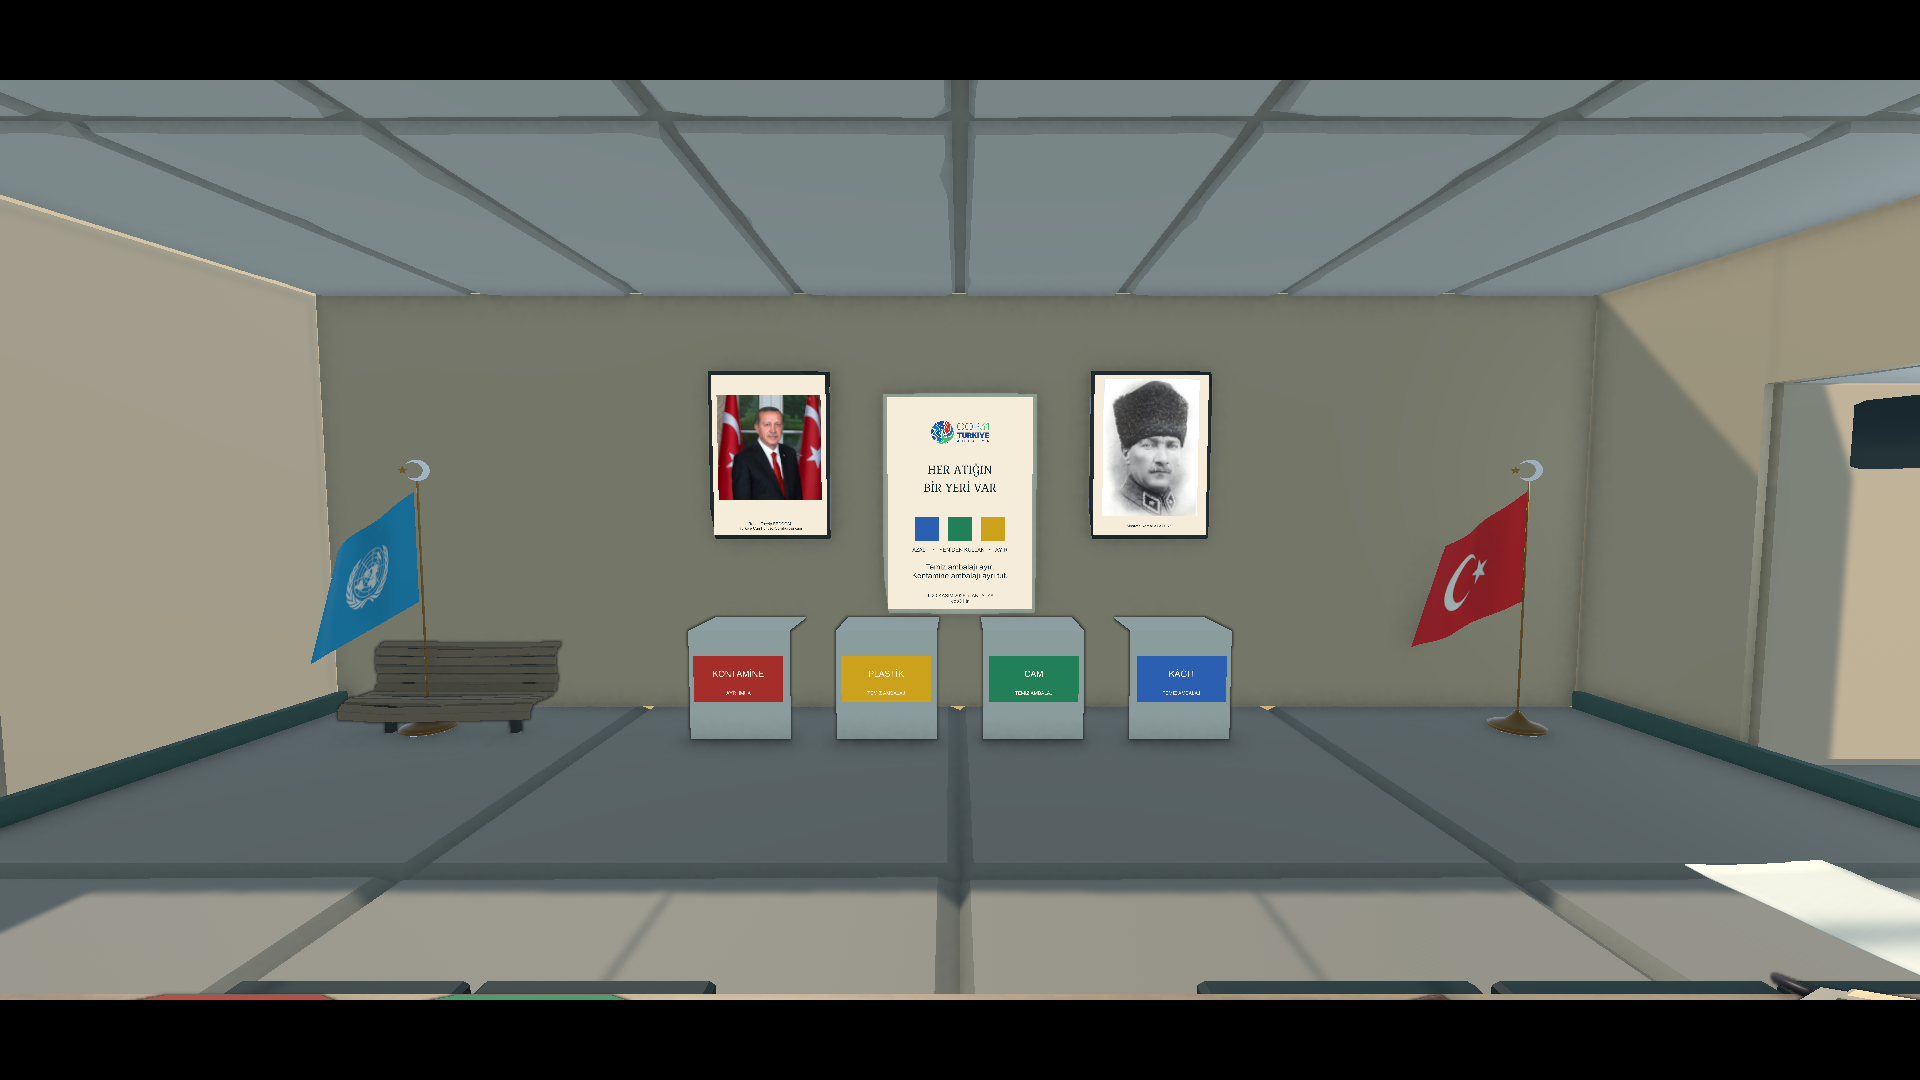
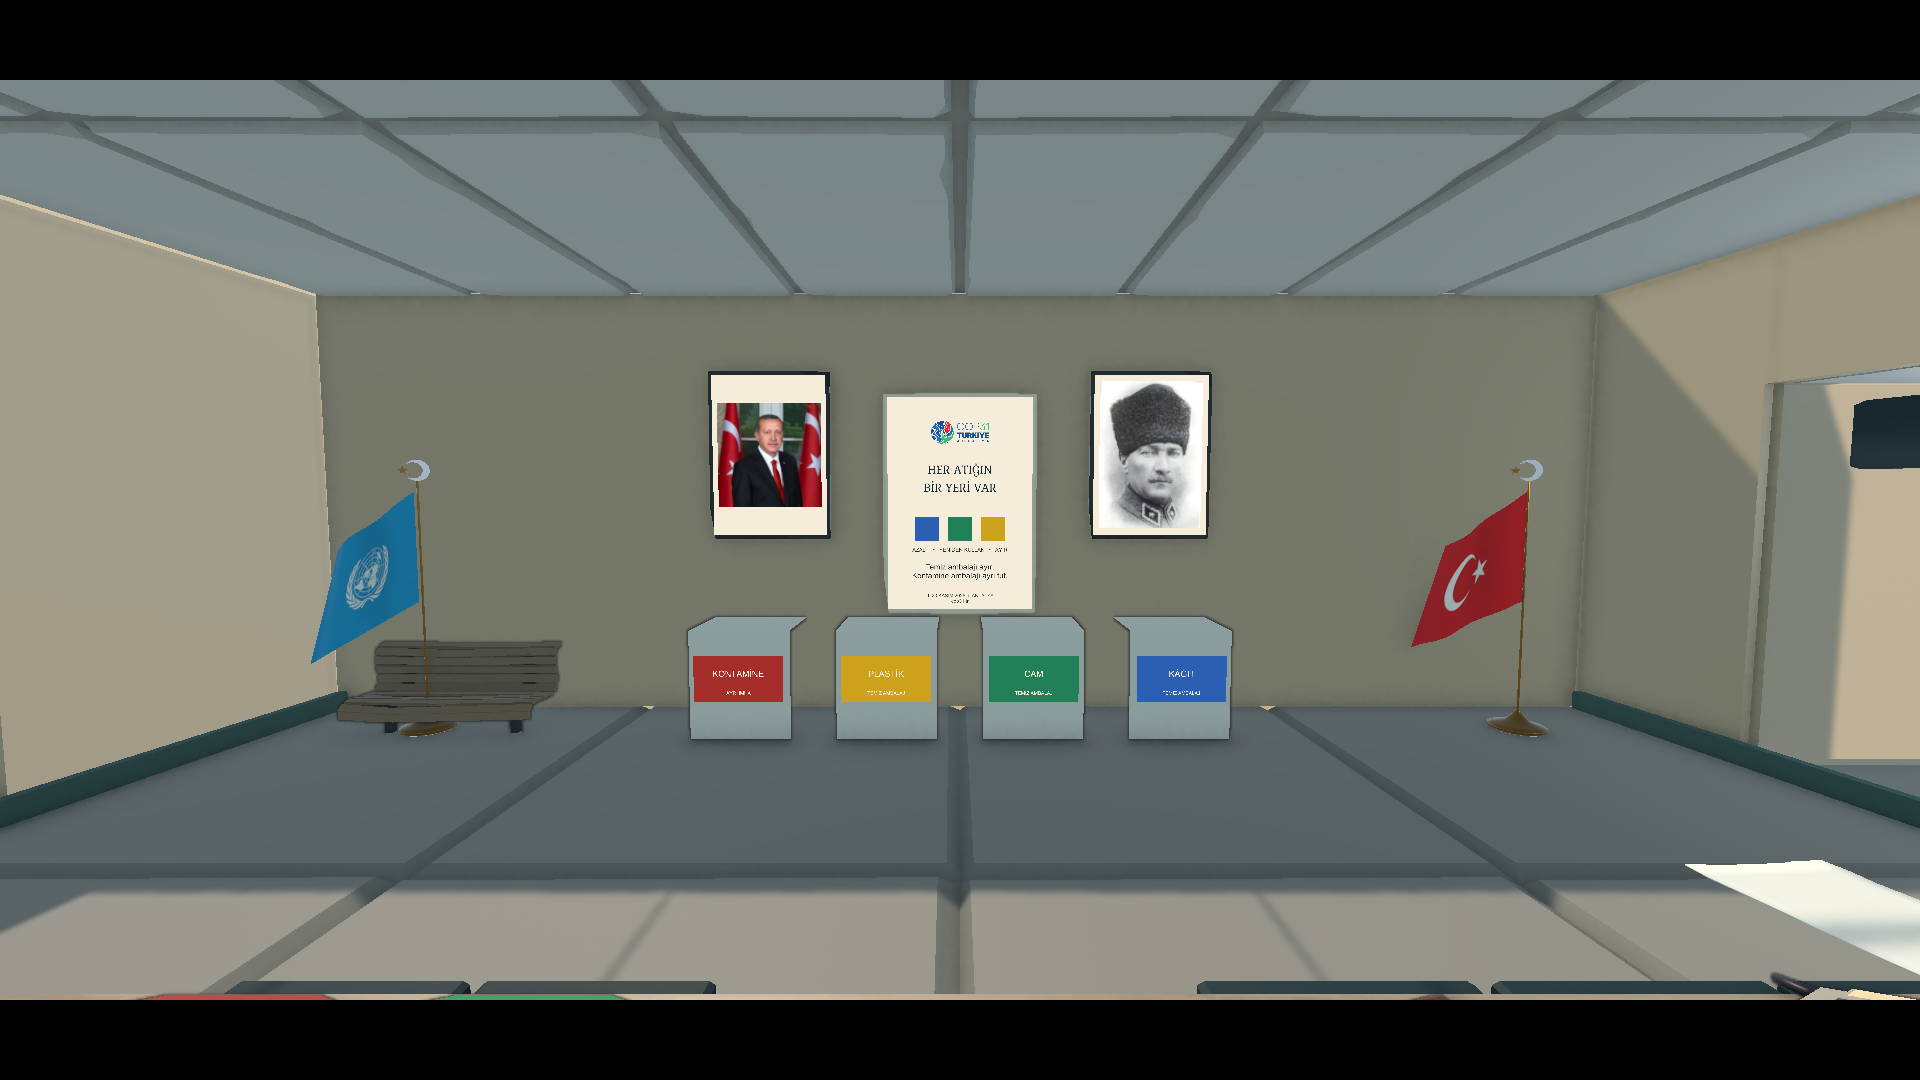
fix(art): show portrait photographs without name labels

Changed region(s): [[0.5625, 0.3361, 0.625, 0.4889], [0.375, 0.3667, 0.4375, 0.4889]]

diff --git a/Assets/Editor/Lead/OfficeIdentityAuthoring.cs b/Assets/Editor/Lead/OfficeIdentityAuthoring.cs
@@ -20,8 +20,8 @@ namespace GameUp.Editor
                 importer.textureCompression=TextureImporterCompression.Compressed;importer.SaveAndReimport();
             }
             var root=new GameObject("OfficeIdentity").transform;root.SetParent(room,false);
-            Portrait(root,"AtaturkPortrait",-2.35f,"Ataturk.jpg","Mustafa Kemal ATATÜRK");
-            Portrait(root,"PresidentPortrait",2.35f,"President.jpg","Recep Tayyip ERDOĞAN\nTürkiye Cumhuriyeti Cumhurbaşkanı");
+            Portrait(root,"AtaturkPortrait",-2.35f,"Ataturk.jpg");
+            Portrait(root,"PresidentPortrait",2.35f,"President.jpg");
             Flag(root,"TurkiyeStandingFlag",new Vector3(-6.45f,0,-7),25,"Turkiye.png");
             Flag(root,"UNStandingFlag",new Vector3(6.15f,0,-7),-25,"UnitedNations.png");
         }
@@ -33,15 +33,14 @@ namespace GameUp.Editor
             material.SetFloat("_Cull",0);material.SetTexture("_BaseMap",texture);material.enableInstancing=true;
             EditorUtility.SetDirty(material);return material;
         }
-        private static void Portrait(Transform parent,string name,float x,string file,string label)
+        private static void Portrait(Transform parent,string name,float x,string file)
         {
             var root=new GameObject(name).transform;root.SetParent(parent,false);root.localPosition=new Vector3(x,3.2f,-7.78f);root.localRotation=Quaternion.Euler(0,180,0);
             FacilityPropAuthoring.Pack("SM_Prop_Poster_01",root,Vector3.zero,new Vector3(1.5f,2.08f,.08f),0,Surface("PortraitFrame",new Color(.13f,.16f,.16f),.35f));
             var canvas=Rect("PortraitPrint",root,0,0,900,1260);canvas.localPosition=new Vector3(0,0,-.052f);canvas.localScale=Vector3.one*(1.4f/900);
             canvas.gameObject.AddComponent<Canvas>().renderMode=RenderMode.WorldSpace;
             Image("Mat",canvas,0,0,900,1260,Paper);
-            var picture=Image("Photograph",canvas,0,60,820,1080,Color.white,AssetDatabase.LoadAssetAtPath<Sprite>(Root+file));picture.preserveAspect=true;
-            Text("Attribution",canvas,label,0,-560,840,110,31,Ink,TextAnchor.MiddleCenter);
+            var picture=Image("Photograph",canvas,0,0,820,1160,Color.white,AssetDatabase.LoadAssetAtPath<Sprite>(Root+file));picture.preserveAspect=true;
         }
         private static void Flag(Transform parent,string name,Vector3 position,float yaw,string texture)
         {

diff --git a/Assets/Art/OfficeIdentity/SOURCES.md b/Assets/Art/OfficeIdentity/SOURCES.md
@@ -1,6 +1,6 @@
 # Makam odası görselleri
 
-Dosyalar kaynaklarından değiştirilmeden alınmıştır. Gerçek fotoğraflardır; yapay zekâ portresi kullanılmaz.
+Dosyalar kaynaklarından değiştirilmeden alınmıştır. Gerçek fotoğraflardır; yapay zekâ portresi kullanılmaz. Çerçevelerde yalnızca fotoğraf görünür; isim veya unvan yazısı bulunmaz.
 
 | Dosya | Kaynak |
 |---|---|
